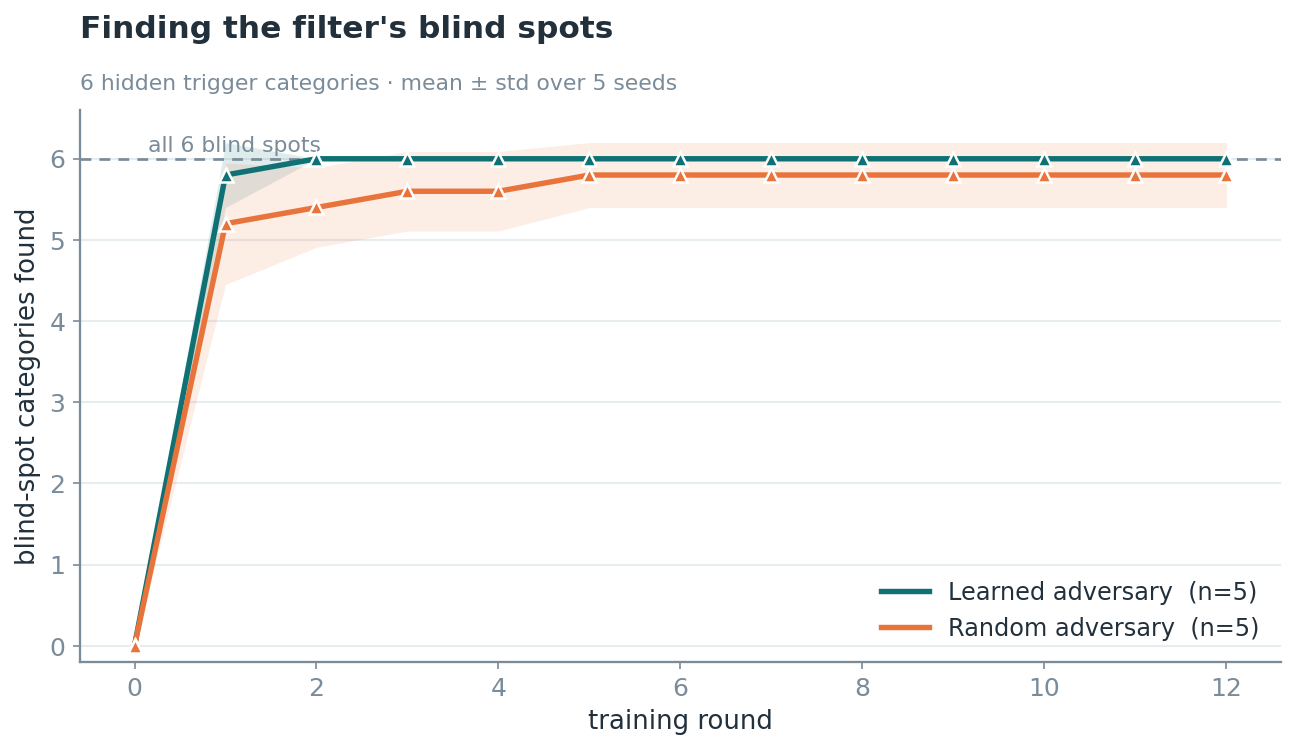
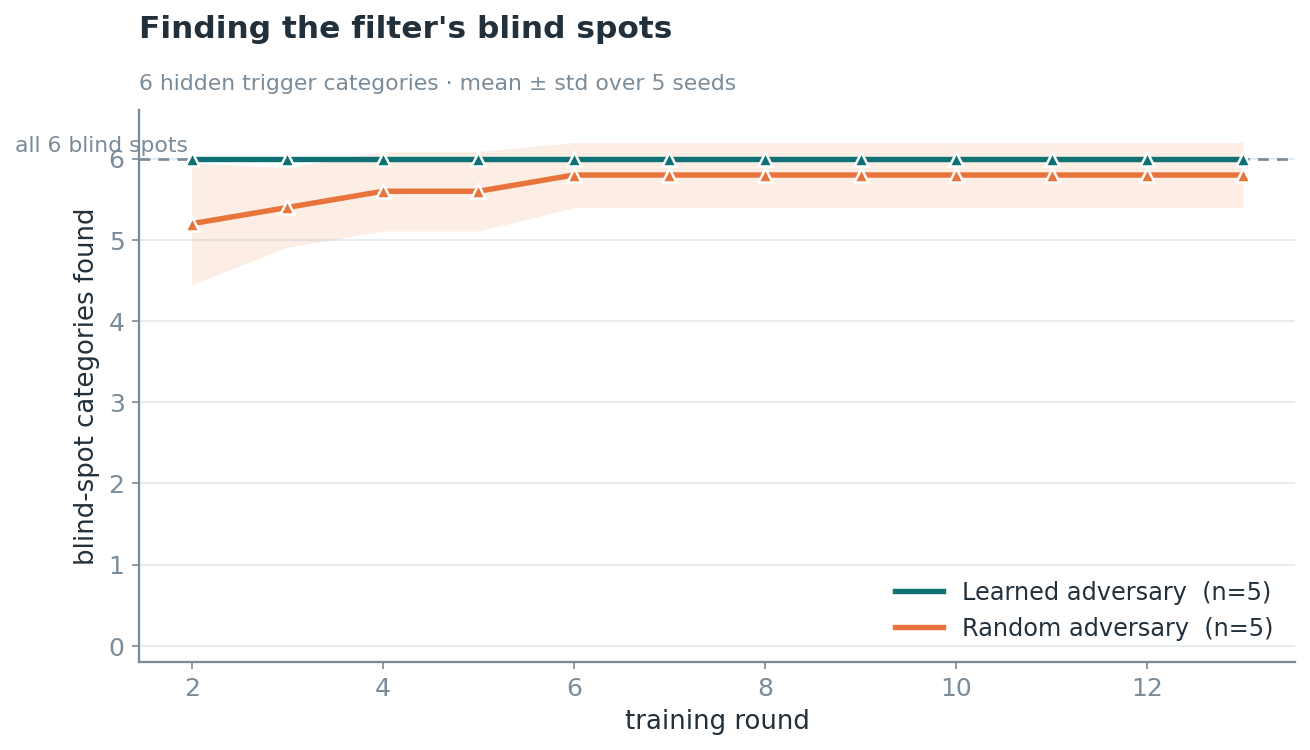
Show the untrained (random-init) model as round 0 in the accuracy plot
The experiment now logs the unfit classifier (round 0, ~0.5 accuracy) before the seed
bootstrap (round 1) and the adversarial rounds, so the accuracy curve starts from chance
rather than from the already-seed-trained model.

diff --git a/scripts/plot_fr.py b/scripts/plot_fr.py
@@ -64,9 +64,10 @@ def series(mode, field):
     return np.array(rows, dtype=float)
 
 
-def band(ax, mode, arr, marker="o"):
-    x = np.arange(arr.shape[1])
-    m, sd = np.nanmean(arr, 0), np.nanstd(arr, 0)
+def band(ax, mode, arr, marker="o", x0=0):
+    x = np.arange(x0, arr.shape[1])
+    a = arr[:, x0:]
+    m, sd = np.nanmean(a, 0), np.nanstd(a, 0)
     ax.fill_between(x, m - sd, m + sd, color=COL[mode], alpha=0.13, lw=0, zorder=2)
     ax.plot(x, m, "-", color=COL[mode], lw=2.6, zorder=3, label=f"{LAB[mode]}  (n={arr.shape[0]})")
     ax.plot(x, m, marker, color=COL[mode], ms=6.5, mec="white", mew=1.2, zorder=4)
@@ -78,28 +79,30 @@ def legend(ax, **kw):
         t.set_color(INK)
 
 
-# 1) false-refusal rate ------------------------------------------------------
+# 1) false-refusal rate (start at the seeded baseline; an untrained filter refuses nothing) ----
 fig, ax = newax()
 for mode in ("grpo", "greedy"):
     a = series(mode, "false_refusal")
     if a is not None:
-        band(ax, mode, a)
+        band(ax, mode, a, x0=1)
 ax.annotate("learned attacker hardens\nthe filter almost immediately",
-            xy=(2, 0.27), xytext=(4.4, 0.66), fontsize=11, color=SMART,
+            xy=(3, 0.27), xytext=(5.2, 0.66), fontsize=11, color=SMART,
             arrowprops=dict(arrowstyle="-|>", color=SMART, lw=1.8, connectionstyle="arc3,rad=-0.2"))
 ax.set_xlabel("training round"); ax.set_ylabel("false-refusal rate"); ax.set_ylim(-0.03, 1.05)
 title(ax, "Wrongly blocking good customers", "share of harmless requests the filter refuses · mean ± std over 5 seeds")
 legend(ax, loc="upper right")
 fig.tight_layout(); fig.savefig(out / "false_refusal.png", bbox_inches="tight"); plt.close(fig)
 
-# 2) classifier accuracy -----------------------------------------------------
+# 2) classifier accuracy (from the UNTRAINED model at round 0) ----------------
 fig, ax = newax()
 for mode in ("grpo", "greedy"):
     a = series(mode, "general_acc")
     if a is not None:
-        band(ax, mode, a, marker="s")
-ax.set_xlabel("training round"); ax.set_ylabel("overall accuracy"); ax.set_ylim(0.86, 1.005)
-title(ax, "The filter gets accurate faster", "balanced allow/block accuracy · mean ± std over 5 seeds")
+        band(ax, mode, a, marker="s", x0=0)
+ax.axvline(1, color=MUTE, lw=1, ls=(0, (3, 3)), zorder=1)
+ax.text(1.12, 0.52, "untrained → seed-trained\n→ adversarial rounds", fontsize=9.5, color=MUTE)
+ax.set_xlabel("training round"); ax.set_ylabel("overall accuracy"); ax.set_ylim(0.44, 1.01)
+title(ax, "The filter gets accurate faster", "balanced allow/block accuracy, from a randomly-initialized model · mean ± std over 5 seeds")
 legend(ax, loc="lower right")
 fig.tight_layout(); fig.savefig(out / "classifier_accuracy.png", bbox_inches="tight"); plt.close(fig)
 
@@ -113,7 +116,8 @@ for mode in ("grpo", "greedy"):
     a = series(mode, "false_refusal")
     if a is None:
         continue
-    t = [(np.where(r <= THRESH)[0][0] if np.any(r <= THRESH) else a.shape[1] - 1) for r in a]
+    # count adversarial rounds (from the seeded baseline at round 1) until fr drops below threshold
+    t = [(np.where(r[1:] <= THRESH)[0][0] if np.any(r[1:] <= THRESH) else a.shape[1] - 2) for r in a]
     labs.append(LAB[mode].split()[0]); means.append(np.mean(t)); errs.append(np.std(t)); cols.append(COL[mode])
 bars = ax.bar(labs, means, yerr=errs, color=cols, width=0.6, zorder=3,
               error_kw=dict(ecolor=INK, lw=1.5, capsize=7), edgecolor="white", lw=1.5)
@@ -128,7 +132,7 @@ fig, ax = newax()
 for mode in ("grpo", "greedy"):
     a = series(mode, "categories")
     if a is not None:
-        band(ax, mode, np.maximum.accumulate(a, axis=1), marker="^")
+        band(ax, mode, np.maximum.accumulate(a, axis=1), marker="^", x0=2)
 ax.axhline(6, ls=(0, (4, 3)), color=MUTE, lw=1.3)
 ax.text(0.15, 6.08, "all 6 blind spots", fontsize=10.5, color=MUTE)
 ax.set_xlabel("training round"); ax.set_ylabel("blind-spot categories found"); ax.set_ylim(-0.2, 6.6)
@@ -141,7 +145,7 @@ fig, ax = newax()
 for mode in ("grpo", "greedy"):
     a = series(mode, "trigger_rate")
     if a is not None:
-        band(ax, mode, np.nan_to_num(a), marker="D")
+        band(ax, mode, np.nan_to_num(a), marker="D", x0=2)
 ax.set_xlabel("training round"); ax.set_ylabel("fraction of attacks that land"); ax.set_ylim(-0.03, 1.02)
 title(ax, "Why: the learned attacker rarely misses", "random wastes its attempts on decoy transforms · mean ± std over 5 seeds")
 legend(ax, loc="upper right")

diff --git a/scripts/experiment_fr.py b/scripts/experiment_fr.py
@@ -143,13 +143,16 @@ logger = JsonlLogger(run_dir)
 adversary = Adversary(cfg.adversary_model, device=cfg.device, lr=cfg.grpo_lr) if mode == "grpo" \
     else GreedyAdversary(max_stack=3)
 novelty = NoveltyTable()
+C = Bow()  # round 0: UNTRAINED (random/unfit) -> predicts a coin flip -> ~0.5 accuracy
+logger.log("rounds", {"round": 0, "phase": "untrained", "false_refusal": false_refusal_rate(C),
+                      "general_acc": general_accuracy(C), "trigger_rate": None, "categories": 0})
 buffer = raw_seed(cfg.easy_per_round, rng)
-C = Bow()
-C.train([e.prompt for e in buffer], [e.label for e in buffer])
-logger.log("rounds", {"round": 0, "false_refusal": false_refusal_rate(C), "general_acc": general_accuracy(C), "trigger_rate": None, "categories": 0})
-print(f"[{mode} s{seed}] round 0 false_refusal={false_refusal_rate(C):.3f}")
+C.train([e.prompt for e in buffer], [e.label for e in buffer])  # round 1: seed bootstrap (no adversary)
+logger.log("rounds", {"round": 1, "phase": "seeded", "false_refusal": false_refusal_rate(C),
+                      "general_acc": general_accuracy(C), "trigger_rate": None, "categories": 0})
+print(f"[{mode} s{seed}] untrained acc={general_accuracy(Bow()):.2f} | seeded acc={general_accuracy(C):.2f}")
 
-for rnd in range(1, ROUNDS + 1):
+for rnd in range(2, ROUNDS + 2):
     mined, n_tot = [], 0
     for _ in range(GROUPS):
         goal = fr_goal(rng)
